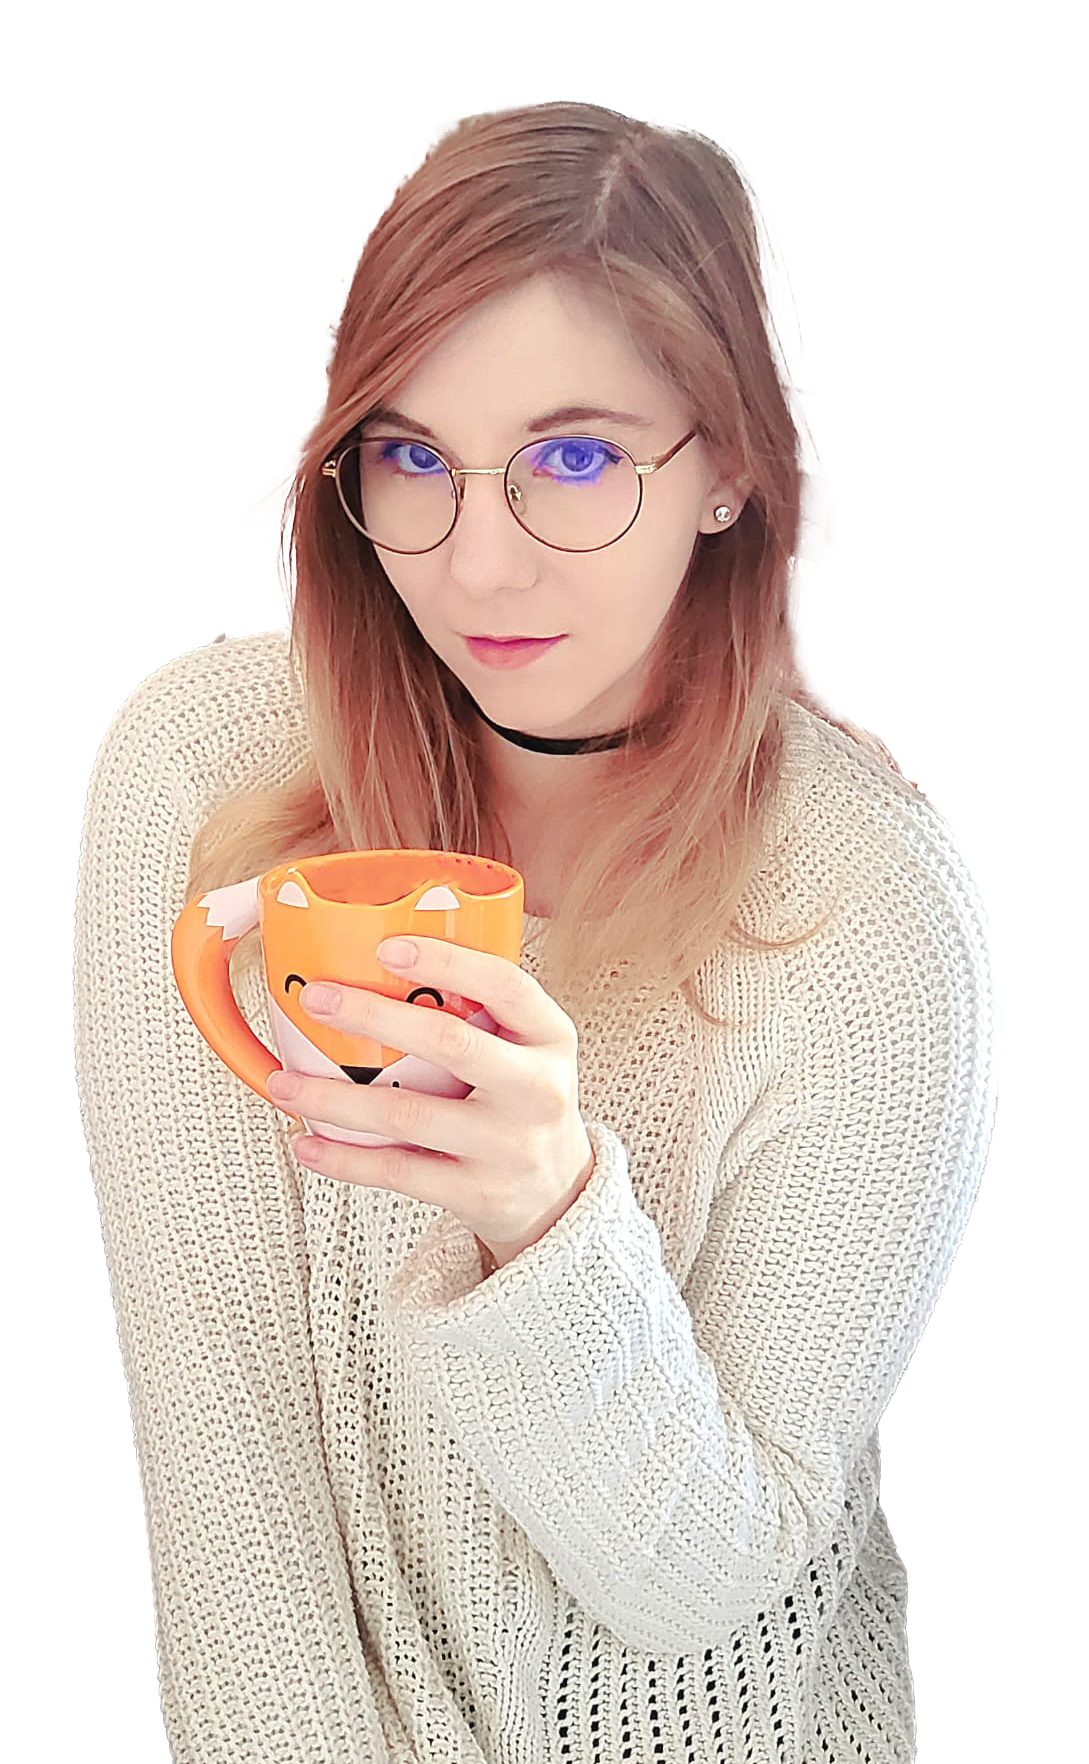
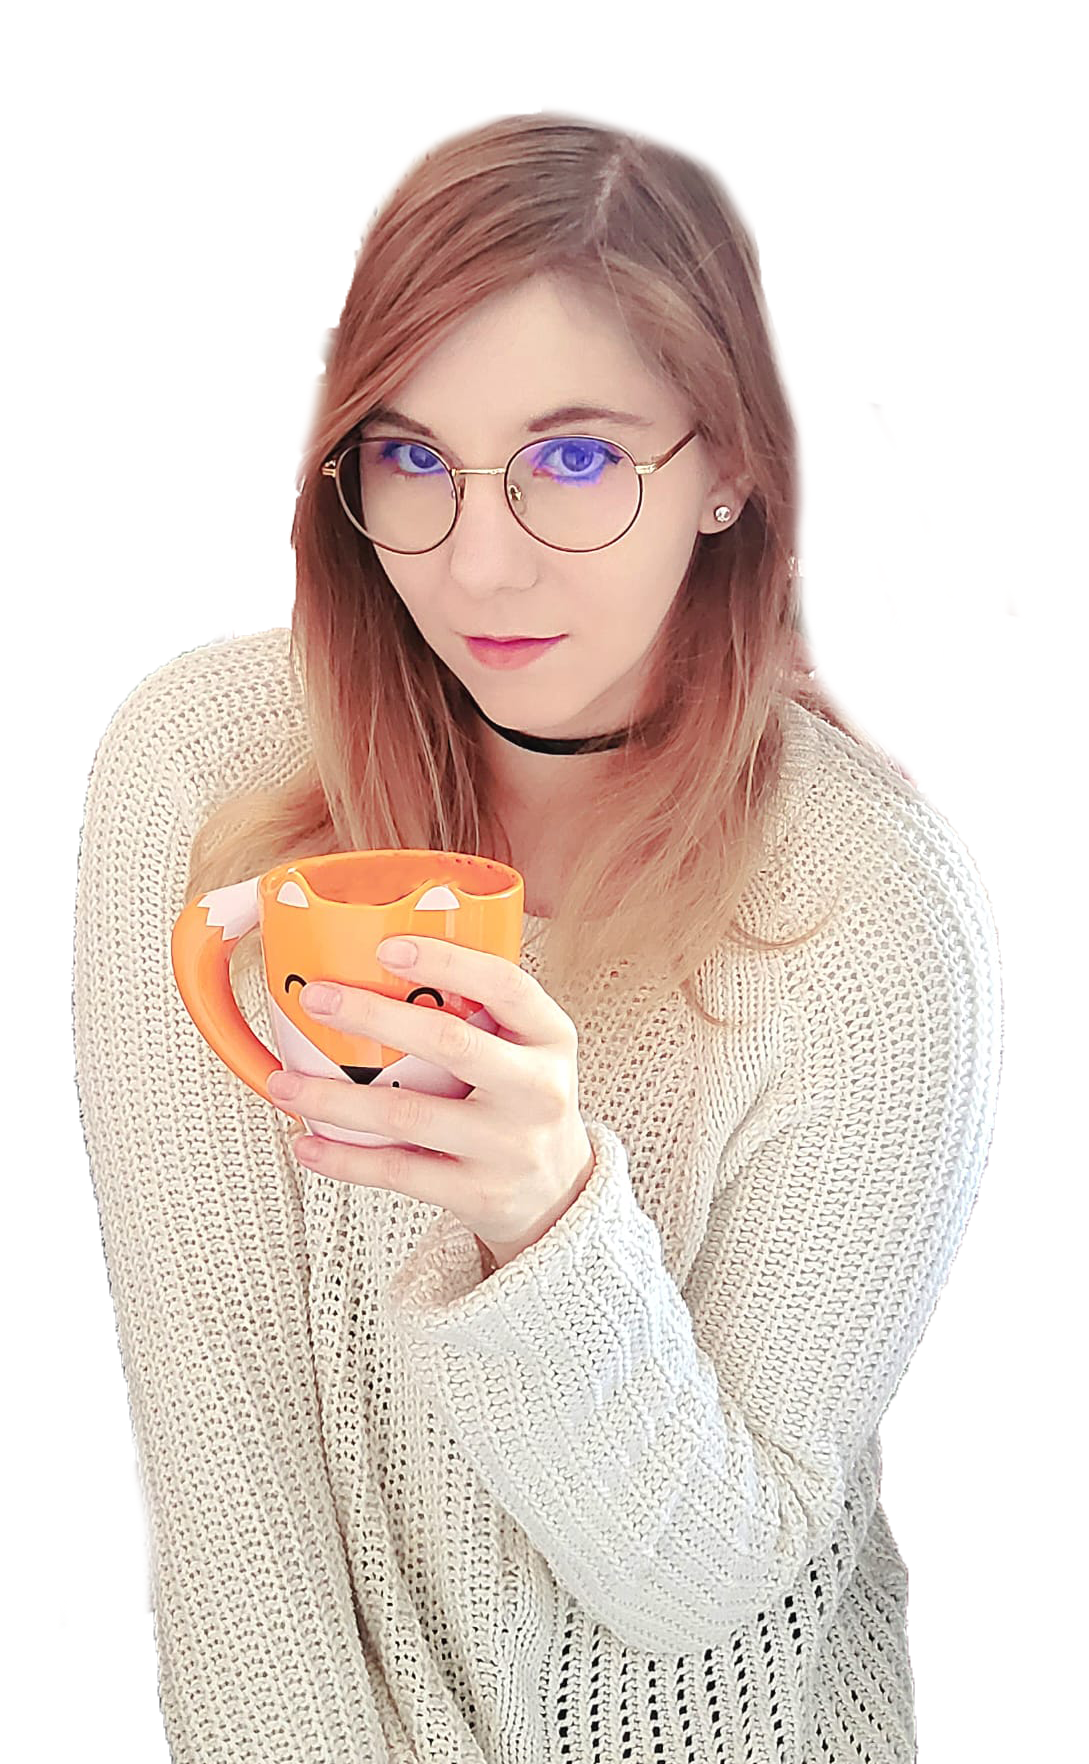
modif

diff --git a/index.html b/index.html
@@ -5,10 +5,17 @@
     <meta charset="UTF-8">
     <meta http-equiv="X-UA-Compatible" content="IE=edge">
 
-    <meta name="viewport" content="width=device-width, initial-scale=1, maximum-scale=3">
+    <meta name="viewport" content="width=device-width, initial-scale=3">
     <title>FOUGEROUSE Élodie | Web Developer in France</title>
+    <meta name="description" content="FOUGEROUSE Élodie — Web Developer Junior in France | Portfolio.">
+    <meta name="keywords"
+        content="Web Developer, France, Élodie Fougerouse, Développeur Web, Portfolio, HTML, CSS, JavaScript, Front-end, UI/UX">
+    <meta property="og:title" content="FOUGEROUSE Élodie | Web Developer in France | Portfolio">
+    <meta property="og:description" content="FOUGEROUSE Élodie — Web Developer Junior in France.">
 
-    <meta name="description" content="FOUGEROUSE Élodie — Web Developer Junior in France.">
+    <!-- METTRE A JOUR -->
+    <meta property="og:image" content="URL_de_votre_image">
+    <meta property="og:url" content="URL_de_votre_site">
 
     <meta name="author" content="FOUGEROUSE Élodie">
     <meta name="designer" content="FOUGEROUSE Élodie">
@@ -30,8 +37,8 @@
 
 
     <!-- RAJOUTER UNE IMAGE ICI -->
-    <link rel="icon" type="image/png" href="" sizes="32x32">
-    <link rel="icon" type="image/png" href="" sizes="16x16">
+    <link rel="icon" type="image/png" href="./images/Logo - 32x32.png" sizes="32x32">
+    <link rel="icon" type="image/png" href="/images/Logo - 16x16.png.png" sizes="16x16">
 
 
     <!-- GOOGLE ANALYTICS -->
@@ -93,10 +100,12 @@
                     <!-- <a href="#"><i class='bx bxl-facebook'></i></a> -->
                     <!-- <a href="#"><i class='bx bxl-twitter'></i></a> -->
                     <a href="#"><i class='bx bxl-instagram-alt'></i></a>
-                    <a href="https://www.linkedin.com/in/elodie-fougerouse-034772210/"><i class='bx bxl-linkedin'></i></a>
+                    <a href="https://www.linkedin.com/in/elodie-fougerouse-034772210/"><i
+                            class='bx bxl-linkedin'></i></a>
                 </div>
 
-                <a href="./Documents/CV - 2025.pdf" class="btn" download="CV_Elodie_Fougerouse.pdf"> Télécharger mon CV</a>
+                <a href="./Documents/CV - 2025.pdf" class="btn" download="CV_Elodie_Fougerouse.pdf"> Télécharger mon
+                    CV</a>
             </div>
 
             <div class="profession-container">
@@ -126,7 +135,7 @@
 
             <!-- modifier image par rapport placement photoshop -->
             <div class="home-img">
-                <img src="./images/home2.png" alt="Ma photo de profil">
+                <img src="./images/home.png" alt="Photo de profil de Élodie Fougerouse">
             </div>
         </section>
 

diff --git a/FRONT-END/about-me.html b/FRONT-END/about-me.html
@@ -5,10 +5,15 @@
     <meta charset="UTF-8">
     <meta http-equiv="X-UA-Compatible" content="IE=edge">
 
-    <meta name="viewport" content="width=device-width, initial-scale=1, maximum-scale=3">
+    <meta name="viewport" content="width=device-width, initial-scale=3">
     <title>FOUGEROUSE Élodie | Web Developer in France</title>
 
-    <meta name="description" content="FOUGEROUSE Élodie — Web Developer Junior in France.">
+    <meta name="description" content="FOUGEROUSE Élodie — Web Developer Junior in France | Portfolio.">
+    <meta name="keywords" content="Web Developer, France, Élodie Fougerouse, Développeur Web, Portfolio, HTML, CSS, JavaScript, Front-end, UI/UX">
+    <meta property="og:title" content="FOUGEROUSE Élodie | Web Developer in France | Portfolio">
+    <meta property="og:description" content="FOUGEROUSE Élodie — Web Developer Junior in France.">
+    <meta property="og:image" content="URL_de_votre_image">
+    <meta property="og:url" content="URL_de_votre_site">
 
     <meta name="author" content="FOUGEROUSE Élodie">
     <meta name="designer" content="FOUGEROUSE Élodie">

diff --git a/css/about-me.css b/css/about-me.css
@@ -285,7 +285,7 @@ ul {
 }
 
 ul h4 {
-  font-size: 2rem;
+  font-size: 3rem;
   margin-bottom: 0rem;
   color: var(--white-color);
   font-family: var(--title1);
@@ -301,7 +301,7 @@ ul li {
 
 .contact p {
   text-align: center;
-  font-size: 1.2rem;
+  font-size: 1.9rem;
 }
 
 /* BREAKPOINT  ******************************************************************************************************************************************

diff --git a/css/index.css b/css/index.css
@@ -372,7 +372,7 @@ left: 8.5rem ;
 ************************************************************************************************************************************************* */
 .angel-1 {
   bottom: -10rem;
-  left: -28rem;
+  left: -38rem;
 }
 
 .angel {

diff --git a/css/style.css b/css/style.css
@@ -288,7 +288,7 @@ section {
   
   .footer-iconTop a i {
     font-size: 2.4rem;
-    color: var (--text-color);
+    color: var(--text-color);
   }
 
 
